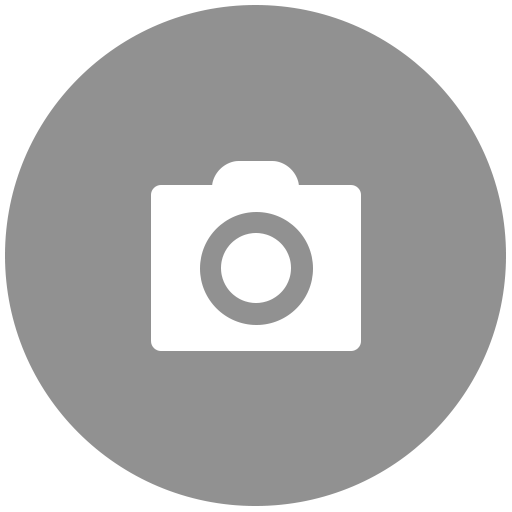
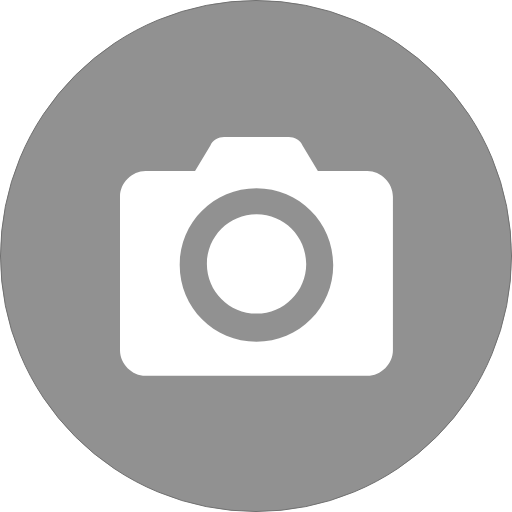
优化细节

diff --git a/lib/photo_selector.dart b/lib/photo_selector.dart
@@ -305,8 +305,8 @@ class _PhotoAddCell extends StatelessWidget {
   Widget build(BuildContext context) {
     return LayoutBuilder(
       builder: (context, constraints) {
-        double addImageSize = constraints.maxWidth / 3.5;
-        double addTextSize = constraints.maxWidth / 10.0;
+        double addImageSize = constraints.maxWidth / 3.0;
+        double addTextSize = constraints.maxWidth / 9.0;
         double borderRadius = constraints.maxWidth / 25.5;
         double addTextTop = constraints.maxWidth / 27.8;
         return GestureDetector(
